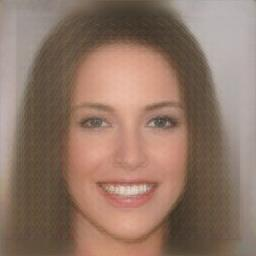
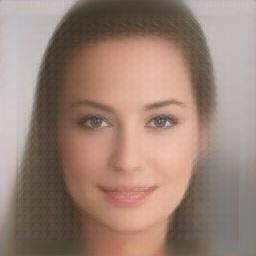
images

diff --git a/inference.py b/inference.py
@@ -32,7 +32,7 @@ def main(args):
     model = models.DeepFaceDrawing(
         CE=True, CE_encoder=True, CE_decoder=False,
         FM=True, FM_decoder=True,
-        IS=True, IS_generator=True, IS_discriminator=False,
+        IS=True, IS_generator=True, IS_discriminator=False, IS2=True,
         manifold=args.manifold
     )
     model.load(args.weight)

diff --git a/models/__init__.py b/models/__init__.py
@@ -30,7 +30,7 @@ class DeepFaceDrawing(nn.Module):
         x = self.FM.decode(x)
         x = self.FM.merge(x)
         x = self.IS.generate(x)
-        #x = self.IS2.generate(x)
+        x = self.IS2.generate(x)
         return x
     
     path_dict = {
